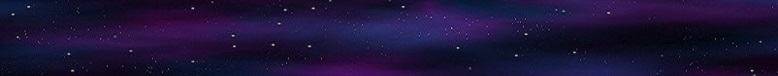
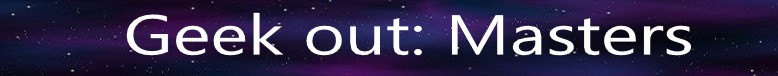
geek out con el titulo puesto

Changed region(s): [[0.1542, 0.1579, 0.8946, 0.7368]]

diff --git a/src/myProject/GUI.java b/src/myProject/GUI.java
@@ -14,6 +14,7 @@ public class GUI extends JFrame {
 
     private Header headerProject;
     private Panel panel;
+    private ImageIcon fondoTitulo;
 
     /**
      * Constructor of GUI class
@@ -23,16 +24,16 @@ public class GUI extends JFrame {
 
         //Default JFrame configuration
         this.setTitle("geek out");
-        this.setSize(776,535);
+        this.setSize(770,535);
         //this.pack();
         this.setResizable(false);
         this.setVisible(true);
         this.setLocationRelativeTo(null);
         this.setDefaultCloseOperation(JFrame.EXIT_ON_CLOSE);
 
-        Container contentpane = getContentPane();
+        /*Container contentpane = getContentPane();
         panel = new Panel();
-        contentpane.add(panel);
+        contentpane.add(panel);*/
 
 
 
@@ -44,18 +45,15 @@ public class GUI extends JFrame {
      */
     private void initGUI() {
         //Set up JFrame Container's Layout
-        this.getContentPane().setLayout(new GridBagLayout());
-        GridBagConstraints constraints = new GridBagConstraints();
 
         //Create Listener Object and Control Object
         //Set up JComponents
-        headerProject = new Header("Geek Out: Masters", Color.BLACK);
-        headerProject.setCursor(new Cursor(Cursor.HAND_CURSOR));
-        constraints.gridx=0;
-        constraints.gridy=0;
-        constraints.gridwidth=0;
-        constraints.fill=GridBagConstraints.HORIZONTAL;
-        this.add(headerProject,constraints); //Change this line if you change JFrame Container's Layout
+
+        //titulo
+        fondoTitulo = new ImageIcon(getClass().getResource("/recursos/titulo.jpg"));
+        headerProject = new Header(fondoTitulo);
+        this.add(headerProject, BorderLayout.NORTH);
+
 
         //fondo
 

diff --git a/src/myProject/Header.java b/src/myProject/Header.java
@@ -10,19 +10,17 @@ import java.awt.*;
  */
 public class Header extends JLabel {
 
+
+
     /**
      * Constructor of the Header class
-     * @param title String that contains Header text
-     * @param colorBackground Color object to be assigned for the Header background
+     * @param icon image in the tittle
      */
-    public Header(String title, Color colorBackground){
-        this.setText(title);
-        this.setBackground(colorBackground);
+    public Header(Icon icon){
+        this.setIcon(icon);
         this.setSize(getWidth(), getHeight());
         this.setForeground(new Color(255,255,255));
-        this.setFont(new Font(Font.DIALOG,Font.BOLD,26));
         this.setHorizontalAlignment(JLabel.CENTER);
-        this.setVerticalAlignment(JLabel.CENTER);
         this.setOpaque(true);
     }
 }
